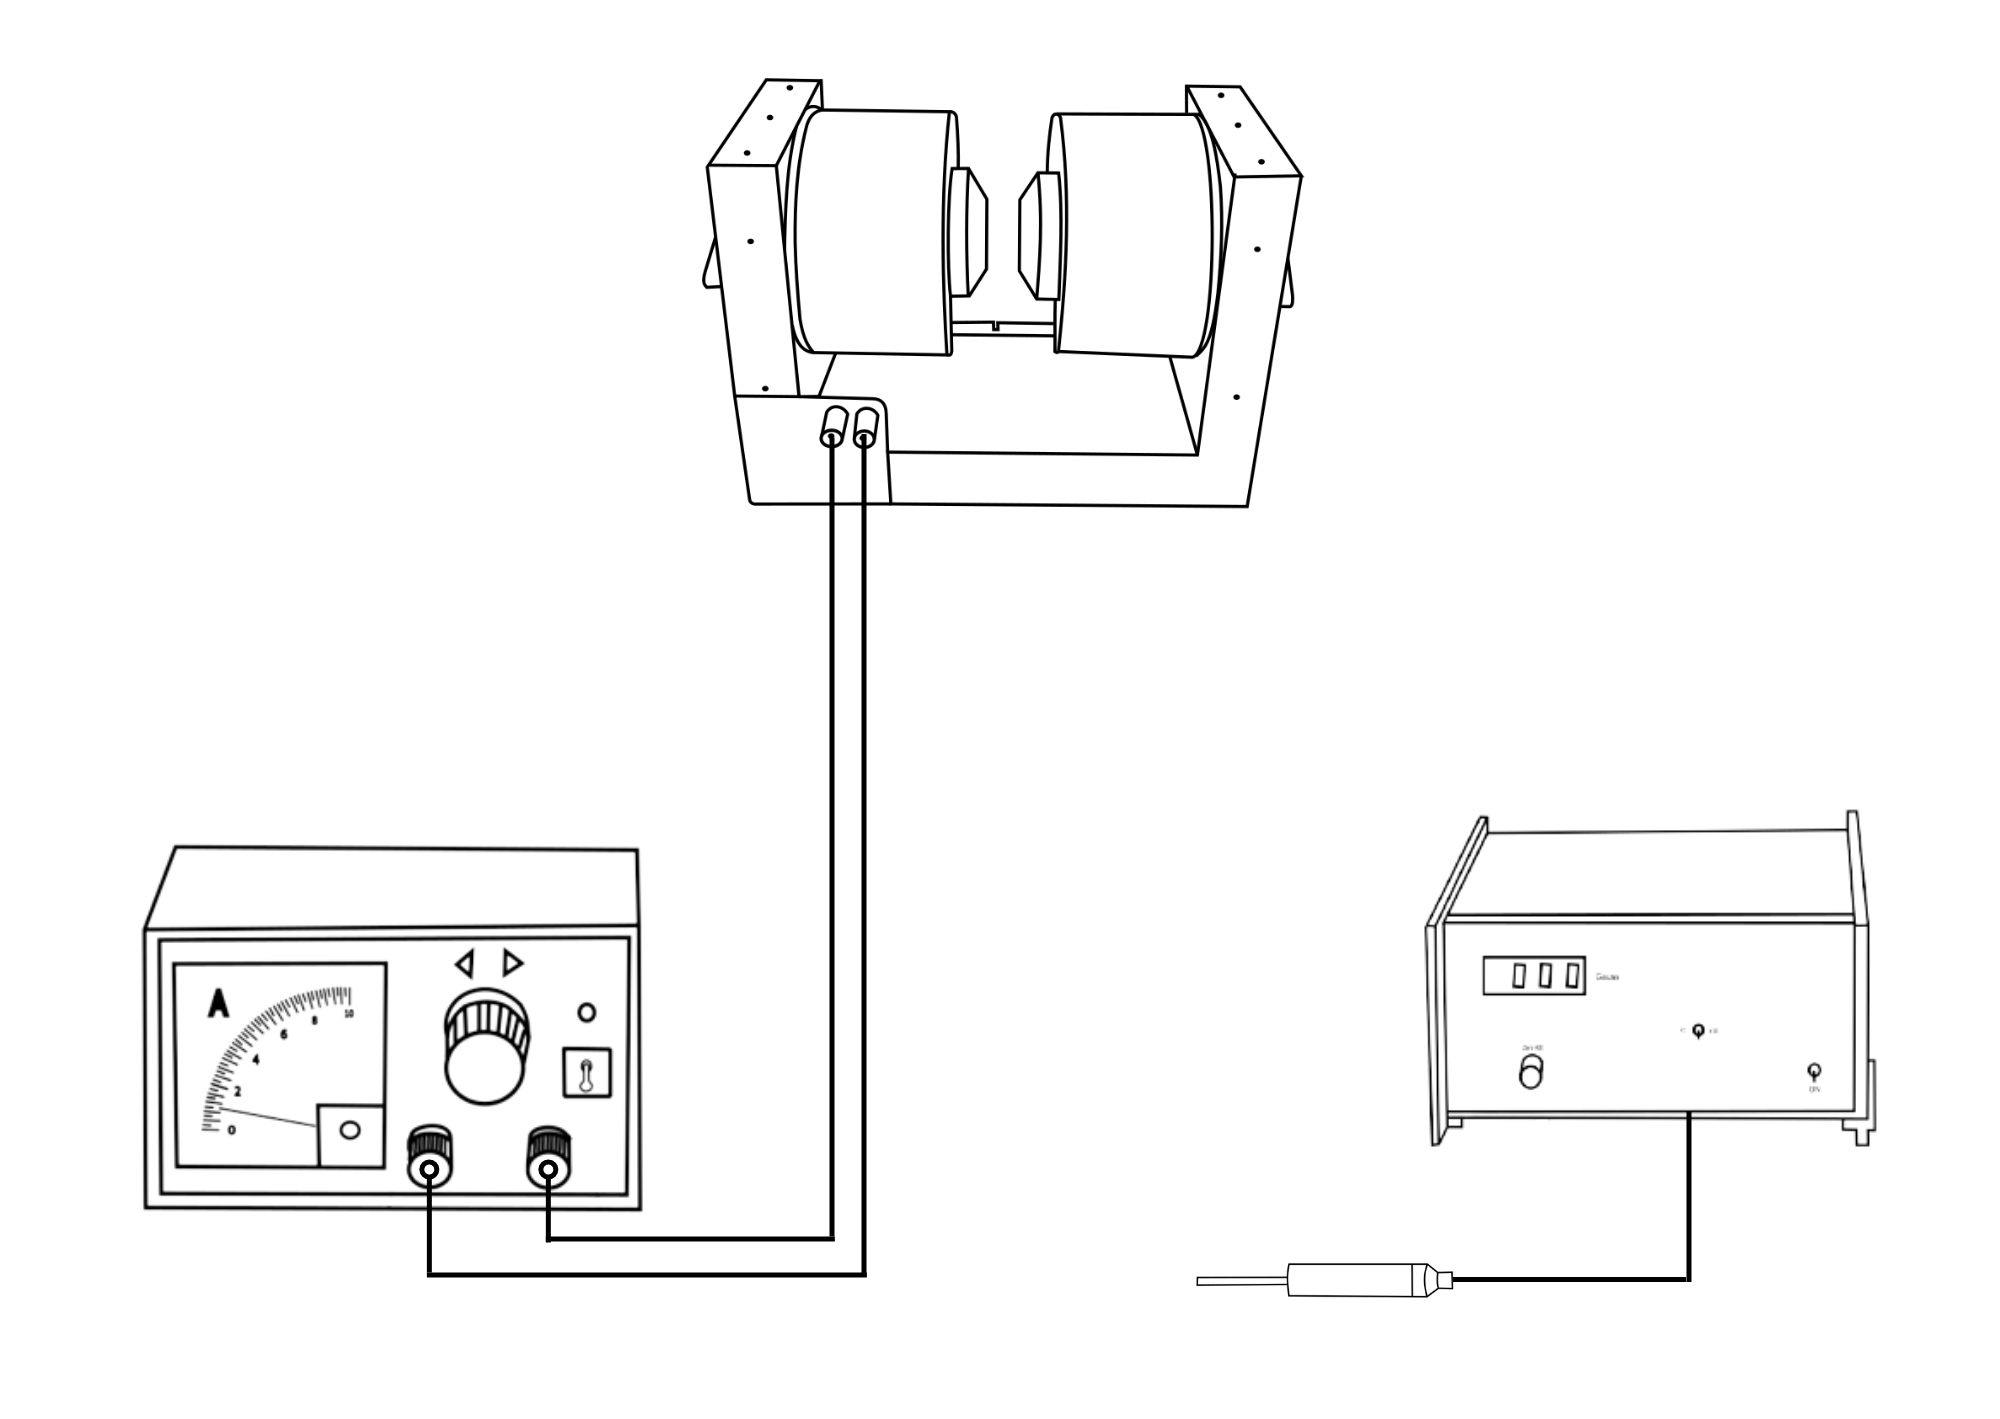
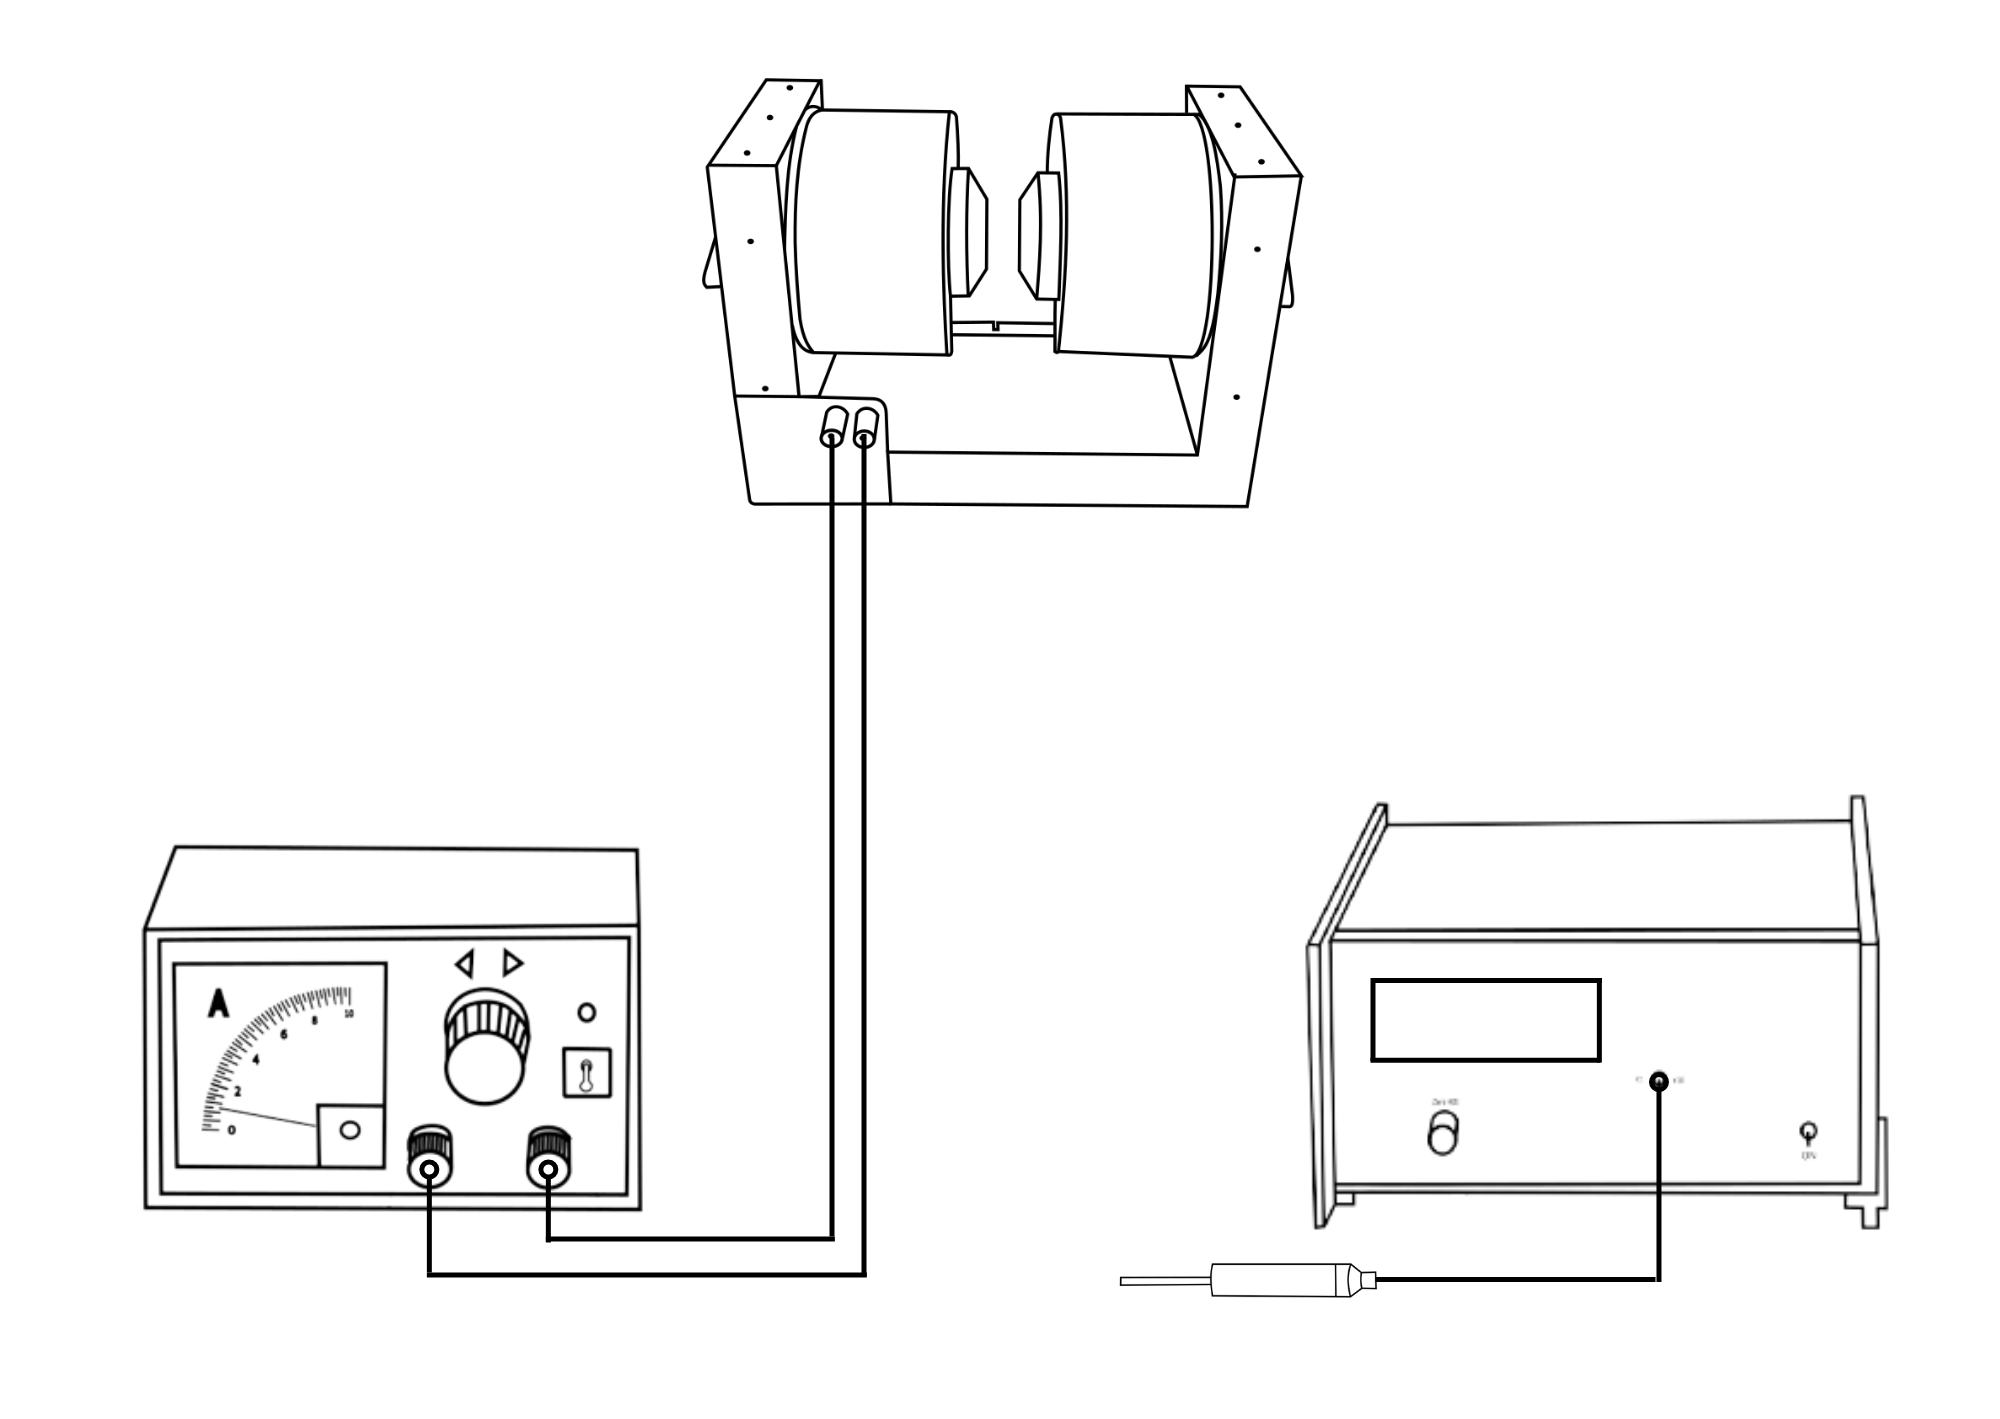
Add files via upload

Changed region(s): [[0.651, 0.5581, 0.961, 0.8682], [0.558, 0.8992, 0.713, 0.9302]]

diff --git a/script.js b/script.js
@@ -36,8 +36,6 @@ let pcheck;
 function update() {
     var select = document.getElementById('exp');
     var option = select.options[select.selectedIndex].value;
-    // document.getElementById('value').value = option;
-    // document.getElementById('text').value = option;
 
     if (option == 'mfield vs current') {
         document.getElementById("circuit1").style.display = 'block';
@@ -93,12 +91,21 @@ function insert() {
         document.getElementById("circuit2").style.display = 'block';
         document.getElementById("circuit4").style.display = 'none';
         document.getElementById("circuit3").style.display = 'none';
+
+        document.getElementById("probe").style.display = 'block';
+        document.getElementById("wire").style.display = 'block';
+        document.getElementById("probe").style.animationName = 'slideup';
+        document.getElementById("wire").style.animationName = 'slideup';
     }
     else if (pcheck == false) {
         document.getElementById("circuit1").style.display = 'none';
         document.getElementById("circuit2").style.display = 'none';
         document.getElementById("circuit4").style.display = 'block';
         document.getElementById("circuit3").style.display = 'none';
+        document.getElementById("hallprobe").style.display = 'block';
+        document.getElementById("hallwire").style.display = 'block';
+        document.getElementById("hallprobe").style.animationName = 'slideup';
+        document.getElementById("hallwire").style.animationName = 'slideup';
         enable()
     }
 }
@@ -116,12 +123,24 @@ function remove() {
         document.getElementById("circuit2").style.display = 'none';
         document.getElementById("circuit3").style.display = 'none';
         document.getElementById("circuit4").style.display = 'none';
+
+        document.getElementById("probe").style.display = 'none';
+        document.getElementById("wire").style.display = 'none';
+
+        document.getElementById("hallprobe").style.display = 'none';
+        document.getElementById("hallwire").style.display = 'none';
     }
     else if (pcheck == false) {
         document.getElementById("circuit1").style.display = 'none';
         document.getElementById("circuit2").style.display = 'none';
         document.getElementById("circuit3").style.display = 'block';
         document.getElementById("circuit4").style.display = 'none';
+
+        document.getElementById("probe").style.display = 'none';
+        document.getElementById("wire").style.display = 'none';
+        
+        document.getElementById("hallprobe").style.display = 'none';
+        document.getElementById("hallwire").style.display = 'none';
         disable()
     }
 }
@@ -134,6 +153,8 @@ coutput.innerHTML = cslider.value;
 
 cslider.oninput = function () {
     coutput.innerHTML = this.value;
+    // document.getElementById('value').value = coutput.innerHTML;
+    // document.getElementById('text').value = this.value;
 }
 
 // thickness slider
@@ -167,12 +188,3 @@ function current() {
     document.getElementById("showcurrent").style.display = 'none';
     document.getElementById("showvoltage").style.display = 'block';
 }
-function updateDiv() {
-    document.getElementById("content2").innerHTML = document.getElementById("content2").innerHTML;
-    document.getElementById("circuit1").style.display = 'none';
-    document.getElementById("circuit2").style.display = 'none';
-    document.getElementById("circuit3").style.display = 'none';
-    document.getElementById("circuit4").style.display = 'none';
-    document.getElementById("remove").style.display = 'none';
-    document.getElementById("insert").style.display = 'block';
-} 

diff --git a/style.css b/style.css
@@ -140,17 +140,19 @@
   cursor: pointer;
 }
 
-.insert-reset{
+.insert-reset {
   display: flex;
-  justify-content: center; 
+  justify-content: center;
   margin: 10px;
 }
-.insert-reset button{
+
+.insert-reset button {
   width: 120px;
   height: 30px;
   border-radius: 20px;
   cursor: pointer;
 }
+
 .current {
   margin: 10px;
 }
@@ -166,7 +168,8 @@
   -webkit-transition: .2s;
   transition: opacity .2s;
 }
-.slider:hover{
+
+.slider:hover {
   opacity: 1;
 }
 
@@ -175,12 +178,13 @@
   appearance: none;
   width: 15px;
   height: 15px;
-  border:2px solid red;
+  border: 2px solid red;
   border-radius: 50%;
   background: #ffffff;
   cursor: pointer;
 }
-.slider::-webkit-slider-thumb:hover{
+
+.slider::-webkit-slider-thumb:hover {
   width: 20px;
   height: 20px;
 }
@@ -213,7 +217,7 @@
   margin: 10px;
 }
 
-.result{
+.result {
   margin: 10px;
   /* background-color: red; */
   text-align: left;
@@ -229,10 +233,64 @@
   text-align: center;
 }
 
-.mainsimulation img{
-  width:600px;
-  height:426px;
+.mainsimulation img {
+  width: 600px;
+  height: 426px;
   margin-top: 30px;
+}
+
+#probe {
+  width: 18px;
+  height: 120px;
+  position: absolute;
+  margin-top: 88px;
+  margin-left: 293px;
+  overflow: hidden;
+  animation-duration: 3s;
+  transition: transform .3s;
+}
+
+@keyframes slideup {
+  from {
+    top: 155px;
+  }
+
+  to {
+    top: 50px;
+  }
+}
+
+#wire {
+  width: 189px;
+  height: 200px;
+  position: absolute;
+  margin-top: 143px;
+  margin-left: 201px;
+  overflow: hidden;
+  animation-duration: 3s;
+  transition: transform .3s;
+}
+
+#hallprobe {
+  width: 18px;
+  height: 78px;
+  position: absolute;
+  margin-top: 88px;
+  margin-left: 290px;
+  overflow: hidden;
+  animation-duration: 3s;
+  transition: transform .3s;
+}
+
+#hallwire {
+  width: 188px;
+  height: 205px;
+  position: absolute;
+  margin-top: 131px;
+  margin-left: 197px;
+  overflow: hidden;
+  animation-duration: 3s;
+  transition: transform .3s;
 }
 
 #content3 {
